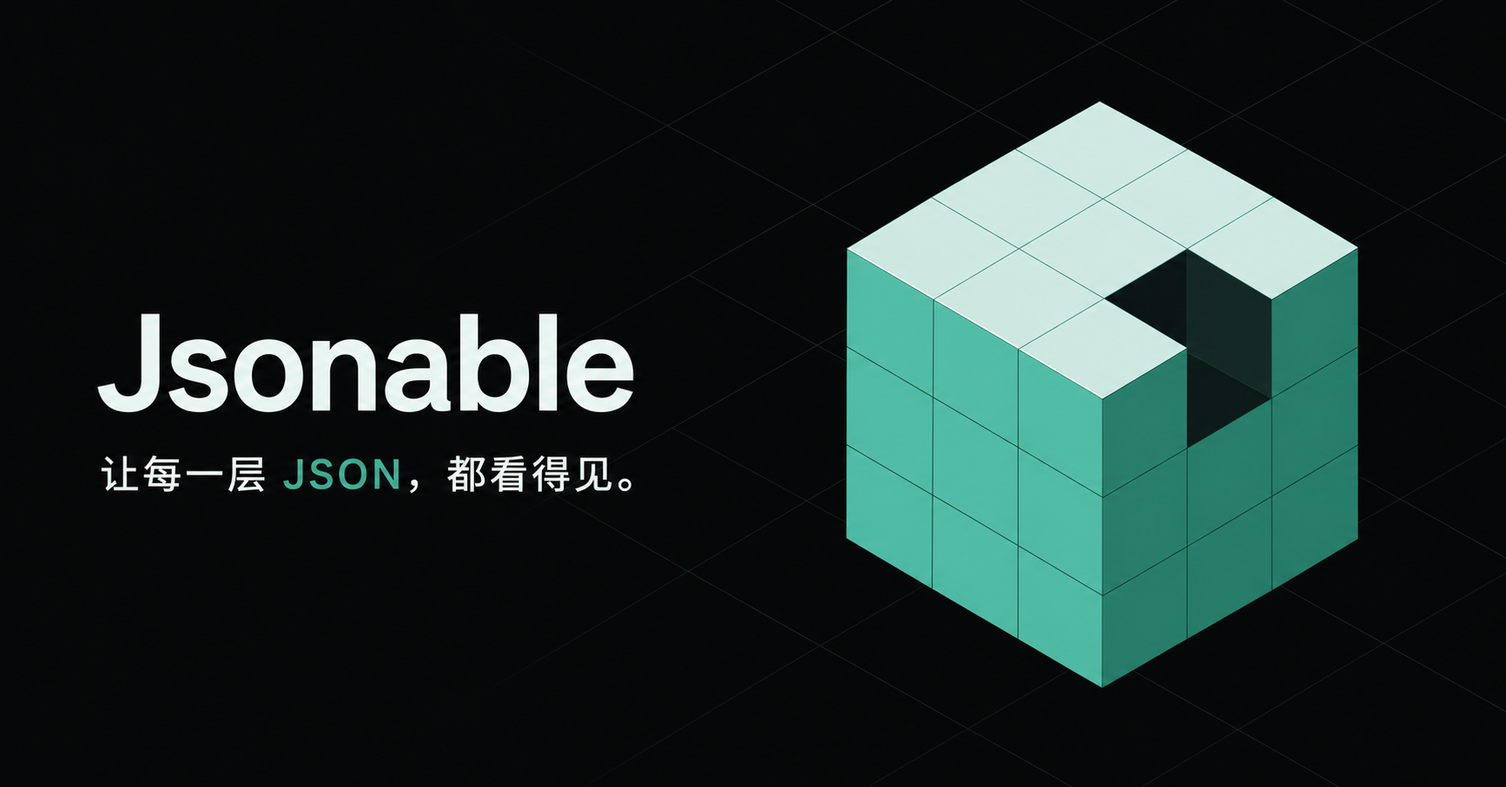
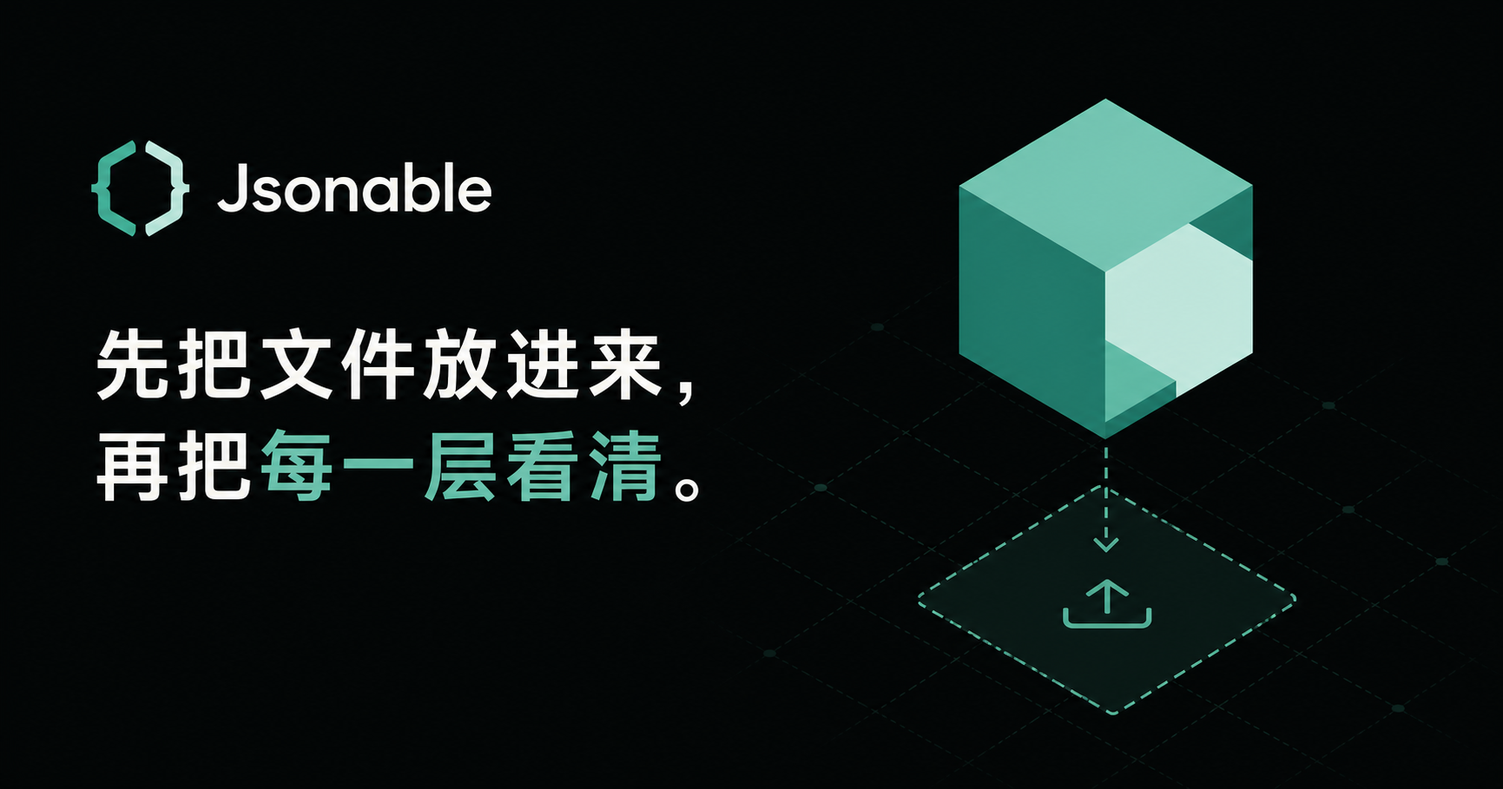
Create upload-first editing flow

Changed region(s): [[0.5615, 0.1235, 0.9047, 0.8953], [0.0624, 0.4013, 0.4679, 0.6483], [0.0624, 0.1852, 0.3432, 0.3087]]

diff --git a/app/page.tsx b/app/page.tsx
@@ -556,14 +556,16 @@ export default function Home() {
   const [mediaConversion, setMediaConversion] = useState<MediaConversionResult | null>(null);
   const [mediaConversionError, setMediaConversionError] = useState("");
   const [isDraggingJson, setIsDraggingJson] = useState(false);
-  const [toolsDocked, setToolsDocked] = useState(false);
+  const [isDraggingLanding, setIsDraggingLanding] = useState(false);
+  const [fileMenuOpen, setFileMenuOpen] = useState(false);
   const [error, setError] = useState("");
-  const [toast, setToast] = useState("已识别示例 JSON");
+  const [toast, setToast] = useState("等待上传文件");
   const fileRef = useRef<HTMLInputElement>(null);
   const replacementFileRef = useRef<HTMLInputElement>(null);
   const imageFileRef = useRef<HTMLInputElement>(null);
   const mediaFileRef = useRef<HTMLInputElement>(null);
-  const heroRef = useRef<HTMLElement>(null);
+  const unifiedFileRef = useRef<HTMLInputElement>(null);
+  const fileMenuRef = useRef<HTMLDivElement>(null);
   const colors = useMemo(() => scanColors(data), [data]);
   const shapes = useMemo(() => scanShapes(data), [data]);
   const images = useMemo(() => scanImages(data), [data]);
@@ -591,13 +593,12 @@ export default function Home() {
     return () => { document.body.style.overflow = previousOverflow; window.removeEventListener("keydown", closeOnEscape); };
   }, [colorEditor, shapeEditorOpen, imageEditorOpen]);
   useEffect(() => {
-    const updateDock = () => {
-      if (!heroRef.current || window.innerWidth < 1500) { setToolsDocked(false); return; }
-      setToolsDocked(heroRef.current.getBoundingClientRect().top <= -72);
-    };
-    updateDock(); window.addEventListener("scroll", updateDock, { passive: true }); window.addEventListener("resize", updateDock);
-    return () => { window.removeEventListener("scroll", updateDock); window.removeEventListener("resize", updateDock); };
-  }, []);
+    if (!fileMenuOpen) return;
+    const close = (event: MouseEvent) => { if (!fileMenuRef.current?.contains(event.target as Node)) setFileMenuOpen(false); };
+    const escape = (event: KeyboardEvent) => { if (event.key === "Escape") setFileMenuOpen(false); };
+    document.addEventListener("pointerdown", close); window.addEventListener("keydown", escape);
+    return () => { document.removeEventListener("pointerdown", close); window.removeEventListener("keydown", escape); };
+  }, [fileMenuOpen]);
   const activeShape = shapes.find((item) => `${item.mode}:${item.name}` === selectedShape) || shapes[0];
   const activeImage = images.find((item) => item.id === selectedImage) || images[0];
   const tabMeta = activeTab === "colors"
@@ -624,8 +625,8 @@ export default function Home() {
     await loadJsonFile(file);
   };
 
-  const convertMediaFiles = async (event: ChangeEvent<HTMLInputElement>) => {
-    const selected = [...(event.target.files || [])]; event.target.value = ""; if (!selected.length) return;
+  const convertMediaList = async (selected: File[]) => {
+    if (!selected.length) return;
     const files = selected.sort((a, b) => a.name.localeCompare(b.name, undefined, { numeric: true, sensitivity: "base" }));
     const allowed = files.every((file) => /^(video\/mp4|image\/(gif|apng|png|jpeg|webp))$/i.test(file.type) || /\.(mp4|gif|apng|png|jpe?g|webp)$/i.test(file.name));
     if (!allowed) { setMediaConversionError("请选择 MP4、GIF、APNG、PNG、JPG 或 WebP 文件。"); return; }
@@ -635,10 +636,25 @@ export default function Home() {
       const frames = files.length > 1 ? await Promise.all(files.slice(0, 96).map(decodeStill)) : kind === "mp4" ? await decodeVideo(files[0]) : kind === "gif" || kind === "apng" ? await decodeAnimatedImage(files[0]) : [await decodeStill(files[0])];
       const lottie = framesToLottie(frames); const text = JSON.stringify(lottie); const jsonSize = new Blob([text]).size; const originalSize = files.reduce((sum, file) => sum + file.size, 0); const payloadSize = frames.reduce((sum, frame) => sum + Math.ceil(frame.dataUrl.length * .75), 0); const percentage = originalSize ? Math.max(0, (1 - Math.min(payloadSize, originalSize) / originalSize) * 100) : 0;
       const baseName = files.length > 1 ? "sequence-frames" : files[0].name.replace(/\.[^.]+$/, "");
-      setMediaConversion({ text, kind, fileCount: frames.length, originalSize, payloadSize, jsonSize, percentage, outputName: `${baseName}-lottie.json` });
+      const outputName = `${baseName}-lottie.json`;
+      setMediaConversion({ text, kind, fileCount: frames.length, originalSize, payloadSize, jsonSize, percentage, outputName });
+      setData(lottie); setHasUploadedFile(true); setFileName(outputName); setInspectorTab("preview"); setError("");
       setToast(`转换完成：已生成 ${frames.length} 帧可播放 Lottie JSON`);
     } catch { setMediaConversionError("转换失败：请确认浏览器支持该媒体编码，或缩短视频、减少序列帧后重试。"); }
     finally { setMediaConverting(false); }
+  };
+  const convertMediaFiles = async (event: ChangeEvent<HTMLInputElement>) => {
+    const selected = [...(event.target.files || [])]; event.target.value = ""; await convertMediaList(selected);
+  };
+  const unifiedUpload = async (event: ChangeEvent<HTMLInputElement>) => {
+    const selected = [...(event.target.files || [])]; event.target.value = ""; if (!selected.length) return;
+    if (selected.length === 1 && (/\.json$/i.test(selected[0].name) || selected[0].type === "application/json")) await loadJsonFile(selected[0]);
+    else await convertMediaList(selected);
+  };
+  const dropUnified = async (event: ReactDragEvent<HTMLDivElement>) => {
+    event.preventDefault(); setIsDraggingLanding(false); const selected = [...(event.dataTransfer.files || [])]; if (!selected.length) return;
+    if (selected.length === 1 && (/\.json$/i.test(selected[0].name) || selected[0].type === "application/json")) await loadJsonFile(selected[0]);
+    else await convertMediaList(selected);
   };
 
   const loadReplacementFile = async (event: ChangeEvent<HTMLInputElement>) => {
@@ -696,18 +712,31 @@ export default function Home() {
   };
 
   return <main>
-    <header className="topbar"><a className="brand" href="#" aria-label="Jsonable 首页"><CubeLogo /><span>Jsonable</span></a><div className="top-actions"><span className="privacy"><span className="lock">◆</span>文件仅在本地处理</span><button className="button button-ghost" onClick={() => fileRef.current?.click()}>＋ 上传文件</button><button className="button button-dark" onClick={download}>下载 JSON <span>↓</span></button></div></header>
-    <section className="hero" ref={heroRef}>
-      <div className="hero-copy"><span className="eyebrow">VISUAL JSON EDITOR</span><h1>让每一层 JSON，<em>都看得见。</em></h1><p>上传 JSON，直接替换颜色、组合形状与图片资源；结构再复杂，也能边改边看。</p></div>
-      <MagicCube compact />
-      <div className={toolsDocked ? "hero-tools docked" : "hero-tools"}>
-        <article className={compressionResult ? "compress-card complete" : "compress-card"}><span className="compress-copy"><small>{compressionResult ? "COMPRESSION COMPLETE" : "JSON MINIFIER"}</small><strong>{compressionResult ? `压缩后 ${formatBytes(compressionResult.compressedSize)}` : "压缩当前 JSON"}</strong><em>{compressionResult ? `原始 ${formatBytes(compressionResult.originalSize)}，减少 ${compressionResult.percentage.toFixed(1)}%` : `当前 ${formatBytes(new Blob([jsonText]).size)}，移除缩进与换行`}</em></span><button className={compressionCountdown !== null ? "compress-action running" : "compress-action"} onClick={() => { setCompressionResult(null); setCompressionCountdown(3); }} disabled={compressionCountdown !== null} aria-label="压缩当前 JSON"><span>{compressionCountdown ?? (compressionResult ? "再压缩" : "压缩")}</span></button>{compressionResult && <button className="compress-download" onClick={downloadCompressed} aria-label="下载压缩后的 JSON">↓</button>}</article>
-        <article className={mediaConversion ? "media-convert-card complete" : "media-convert-card"}><span className="compress-copy"><small>{mediaConversion ? "PLAYABLE LOTTIE READY" : "MEDIA TO LOTTIE JSON"}</small><strong>{mediaConversion ? `${mediaConversion.fileCount} 帧，${formatBytes(mediaConversion.jsonSize)}` : "转换为可播放 JSON"}</strong><em>{mediaConversion ? `图像压缩 ${mediaConversion.percentage.toFixed(1)}%，${mediaConversion.kind}` : "MP4、GIF、APNG 或序列帧"}</em></span><button className="media-upload-button" onClick={() => mediaFileRef.current?.click()} disabled={mediaConverting}>{mediaConverting ? "正在抽帧..." : "上传非json文件"}</button>{mediaConversion && <button className="compress-download" onClick={downloadMediaJson} aria-label="下载可播放的 Lottie JSON">↓</button>}{mediaConversionError && <span className="media-inline-error">{mediaConversionError}</span>}</article>
+    <header className="topbar">
+      <a className="brand" href="#" aria-label="Jsonable 首页"><CubeLogo /><span>Jsonable</span></a>
+      <div className="top-actions"><span className="privacy"><span className="lock">◆</span>文件仅在本地处理</span>
+        <div className="file-menu" ref={fileMenuRef}>
+          <button className={fileMenuOpen ? "button button-ghost active" : "button button-ghost"} onClick={() => setFileMenuOpen((open) => !open)} aria-expanded={fileMenuOpen}>文件与处理 <span>⌄</span></button>
+          {fileMenuOpen && <div className="file-menu-popover">
+            <button onClick={() => { setFileMenuOpen(false); fileRef.current?.click(); }}><span>01</span><strong>上传 JSON</strong><small>打开可编辑动画文件</small></button>
+            <button onClick={() => { setFileMenuOpen(false); mediaFileRef.current?.click(); }}><span>02</span><strong>上传非 JSON</strong><small>MP4、GIF、APNG、序列帧</small></button>
+            <button disabled={!hasUploadedFile || compressionCountdown !== null} onClick={() => { setCompressionResult(null); setCompressionCountdown(3); }}><span>03</span><strong>{compressionCountdown !== null ? `正在压缩 ${compressionCountdown}` : "压缩当前 JSON"}</strong><small>{compressionResult ? `减少 ${compressionResult.percentage.toFixed(1)}% · ${formatBytes(compressionResult.compressedSize)}` : "移除缩进与换行"}</small></button>
+            {compressionResult && <button onClick={downloadCompressed}><span>↓</span><strong>下载压缩文件</strong><small>{formatBytes(compressionResult.compressedSize)}</small></button>}
+            {mediaConversion && <button onClick={downloadMediaJson}><span>↓</span><strong>下载转换文件</strong><small>{mediaConversion.fileCount} 帧 Lottie JSON</small></button>}
+          </div>}
+        </div>
+        <button className="button button-dark" onClick={download} disabled={!hasUploadedFile}>下载 JSON <span>↓</span></button>
       </div>
-      <input ref={fileRef} type="file" accept="application/json,.json" onChange={loadFile} hidden /><input ref={mediaFileRef} type="file" accept="video/mp4,image/gif,image/apng,image/png,image/jpeg,image/webp,.apng" multiple onChange={convertMediaFiles} hidden />
-    </section>
+    </header>
+    <input ref={fileRef} type="file" accept="application/json,.json" onChange={loadFile} hidden />
+    <input ref={mediaFileRef} type="file" accept="video/mp4,image/gif,image/apng,image/png,image/jpeg,image/webp,.apng" multiple onChange={convertMediaFiles} hidden />
+    <input ref={unifiedFileRef} type="file" accept="application/json,.json,video/mp4,image/gif,image/apng,image/png,image/jpeg,image/webp,.apng" multiple onChange={unifiedUpload} hidden />
+    {!hasUploadedFile ? <section className={isDraggingLanding ? "landing-hero is-dragging" : "landing-hero"} onDragEnter={(event) => { event.preventDefault(); setIsDraggingLanding(true); }} onDragOver={(event) => event.preventDefault()} onDragLeave={(event) => { if (!event.currentTarget.contains(event.relatedTarget as Node)) setIsDraggingLanding(false); }} onDrop={dropUnified}>
+      <div className="landing-copy"><span className="eyebrow">VISUAL JSON EDITOR</span><h1>先把文件放进来，<br /><em>再把每一层看清。</em></h1><p>JSON、MP4、GIF、APNG 与序列帧都可以。媒体文件会先转换成可播放、可编辑的 Lottie JSON。</p><div className="landing-steps"><span>01 上传</span><span>02 预览与代码</span><span>03 修改元素</span></div></div>
+      <div className="landing-upload"><MagicCube compact /><button onClick={() => unifiedFileRef.current?.click()} disabled={mediaConverting}>{mediaConverting ? "正在转换媒体..." : "选择文件"}<span>＋</span></button><strong>或把文件拖到这里</strong><small>支持单个 JSON / 视频 / 动图，也支持多选序列帧</small>{mediaConversionError && <em>{mediaConversionError}</em>}{isDraggingLanding && <div className="landing-drop-state">松开开始处理</div>}</div>
+    </section> : <section className="editor-context"><div><span className="eyebrow">NOW EDITING</span><strong>{fileName}</strong><small>{isLottie(data) ? "可播放 Lottie" : "JSON 视觉结构"} · {formatBytes(new Blob([jsonText]).size)}</small></div><button onClick={() => unifiedFileRef.current?.click()}>更换文件</button></section>}
     {error && <div className="error" role="alert">{error}</div>}
-    <section className="workspace">
+    {hasUploadedFile && <section className="workspace">
       <aside className="rail"><div className="rail-title">已识别</div><button className={activeTab === "colors" ? "rail-item active" : "rail-item"} onClick={() => setActiveTab("colors")}><span className="rail-icon">◒</span><span>颜色<small>Colors</small></span><b>{colors.length}</b></button><button className={activeTab === "shapes" ? "rail-item active" : "rail-item"} onClick={() => setActiveTab("shapes")}><span className="rail-icon">◇</span><span>组合形状<small>Groups</small></span><b>{shapes.length}</b></button><button className={activeTab === "images" ? "rail-item active" : "rail-item"} onClick={() => setActiveTab("images")}><span className="rail-icon">▧</span><span>图片资源<small>Images</small></span><b>{images.length}</b></button><div className="rail-note"><span>↗</span><p>支持颜色、组合矢量和图片资源的本地批量替换。</p></div></aside>
       <section className="editor-panel"><div className="resource-tabs" role="tablist" aria-label="可替换资源"><button role="tab" aria-selected={activeTab === "colors"} className={activeTab === "colors" ? "active" : ""} onClick={() => setActiveTab("colors")}><span>颜色</span><small>COLORS</small><b>{colors.length}</b></button><button role="tab" aria-selected={activeTab === "shapes"} className={activeTab === "shapes" ? "active" : ""} onClick={() => setActiveTab("shapes")}><span>组合形状</span><small>GROUPS</small><b>{shapes.length}</b></button><button role="tab" aria-selected={activeTab === "images"} className={activeTab === "images" ? "active" : ""} onClick={() => setActiveTab("images")}><span>图片资源</span><small>IMAGES</small><b>{images.length}</b></button></div><div className="section-head"><div><h2>{tabMeta.title}</h2><span className="en">{tabMeta.english}</span></div><p>{tabMeta.description}</p></div>
         {activeTab === "colors" ? <div className="color-grid">{colors.map((color, index) => <article className="color-card" key={color.hex}><div className="swatch" style={{ background: color.hex }}><span>{String(index + 1).padStart(2, "0")}</span></div><div className="color-meta"><label>识别结果</label><strong>{color.hex}</strong><small>{color.label} · {color.count} 个引用</small></div><button className="picker-button" onClick={() => setColorEditor({ current: color.hex, draft: color.hex, count: color.count })}><span className="picker-chip" style={{ background: color.hex }} />选择颜色</button></article>)}{!colors.length && <Empty text="暂未识别到颜色；可切到 JSON 查看原始字段" />}</div> : activeTab === "shapes" ?
@@ -723,7 +752,7 @@ export default function Home() {
           {isDraggingJson && <div className="drop-overlay"><span>↓</span><strong>松开即可载入 JSON</strong><small>文件只在本地浏览器中处理</small></div>}
         </div> : <><div className="json-head"><div><span className="status-dot" /> 已同步</div><button onClick={() => navigator.clipboard.writeText(jsonText).then(() => setToast("JSON 已复制"))}>复制</button></div><pre>{jsonText.split("\n").map((line, i) => <code key={i}><span>{String(i + 1).padStart(2, "0")}</span>{line}</code>)}</pre><div className="json-foot"><span>{jsonText.split("\n").length} 行</span><span>UTF-8</span></div></>}
       </aside>
-    </section>
+    </section>}
     {colorEditor && <div className="color-dialog-layer" role="dialog" aria-modal="true" aria-label="颜色编辑器"><div className="color-dialog"><header><div><span className="eyebrow">COLOR EDITOR</span><h3>替换颜色</h3></div><button onClick={() => setColorEditor(null)} aria-label="关闭颜色编辑器">×</button></header><div className="color-dialog-main"><label className="large-picker" style={{ background: colorEditor.current }}><input type="color" value={colorEditor.current} onChange={(event) => changeColor(event.target.value)} /><span>点击选择色彩</span></label><div className="color-values"><label>HEX 色值</label><div><input value={colorEditor.draft} onChange={(event) => setColorEditor({ ...colorEditor, draft: event.target.value.toUpperCase() })} /><button onClick={() => changeColor(colorEditor.draft)}>应用</button></div><small>将同步修改 {colorEditor.count} 个引用，窗口不会自动关闭。</small></div></div><div className="quick-colors">{["#101513", "#E8F0ED", "#48C5A1", "#2A6F5C", "#E66E58", "#5E8DA0"].map((hex) => <button key={hex} style={{ background: hex }} onClick={() => changeColor(hex)} aria-label={`选择 ${hex}`} />)}</div><footer><span>修改已实时写入预览和 JSON</span><button onClick={() => setColorEditor(null)}>关闭</button></footer></div></div>}
     {shapeEditorOpen && activeShape && <div className="color-dialog-layer" role="dialog" aria-modal="true" aria-label={`替换形状 ${activeShape.name}`}><div className="color-dialog asset-dialog"><header><div><span className="eyebrow">SVG REPLACEMENT</span><h3>替换「{activeShape.name}」</h3></div><button onClick={() => setShapeEditorOpen(false)} aria-label="关闭形状替换窗口">×</button></header><div className="asset-dialog-body"><div className="replace-card"><div className="composed-current"><ShapeThumb data={data} shape={activeShape} /><span><small>主文件中的目标</small><strong>{activeShape.name}</strong></span><b>{activeShape.count} 个实例</b></div><button className="replacement-upload" onClick={() => replacementFileRef.current?.click()}>{uploadedSvg ? <img className="replacement-svg-preview" src={uploadedSvg.preview} alt="上传的 SVG 预览" /> : <span className="replacement-upload-icon">＋</span>}<span><small>{uploadedSvg ? "已转换为矢量路径" : "上传替换形状"}</small><strong>{uploadedSvg?.fileName || "选择 SVG 文件"}</strong></span><b>{uploadedSvg ? "重新上传" : "选择文件"}</b></button><input ref={replacementFileRef} type="file" accept="image/svg+xml,.svg" onChange={loadReplacementFile} hidden />{replacementError && <div className="replacement-error" role="alert">{replacementError}</div>}{uploadedSvg && <><div className="replacement-summary"><span>已转换的矢量部分</span><b>{uploadedSvg.partCount}</b></div><button className="apply-replacement" onClick={() => changeShapeFromUpload(activeShape)} disabled={activeShape.mode === "reference"}>使用这个 SVG 替换全部同名形状</button>{activeShape.mode === "reference" && <div className="replacement-empty">当前目标是外部引用，不能直接写入 SVG 路径。</div>}</>}<p>SVG 会转换为 JSON 内的矢量路径，同时保留同名实例的位置、缩放和动画变换。</p></div></div><footer><span>文件仅在本地浏览器中处理</span><button onClick={() => setShapeEditorOpen(false)}>关闭</button></footer></div></div>}
     {imageEditorOpen && activeImage && <div className="color-dialog-layer" role="dialog" aria-modal="true" aria-label={`替换图片 ${activeImage.name}`}><div className="color-dialog asset-dialog"><header><div><span className="eyebrow">IMAGE REPLACEMENT</span><h3>替换「{activeImage.name}」</h3></div><button onClick={() => setImageEditorOpen(false)} aria-label="关闭图片替换窗口">×</button></header><div className="asset-dialog-body"><div className="replace-card image-replace-card"><div className="current-image"><span className="current-image-preview"><ImageThumb source={activeImage.preview} label={activeImage.name} /></span><span><small>当前资源</small><strong>{activeImage.name}</strong><em>{activeImage.count} 个引用</em></span></div><button className="replacement-upload image-upload" onClick={() => imageFileRef.current?.click()}>{uploadedImage ? <img className="replacement-svg-preview" src={uploadedImage.dataUrl} alt="新图片预览" /> : <span className="replacement-upload-icon">＋</span>}<span><small>{uploadedImage ? `${uploadedImage.width} × ${uploadedImage.height}` : "上传新图片"}</small><strong>{uploadedImage?.fileName || "选择 PNG、JPG、WebP 或 GIF"}</strong></span><b>{uploadedImage ? "重新上传" : "选择文件"}</b></button><input ref={imageFileRef} type="file" accept="image/png,image/jpeg,image/webp,image/gif" onChange={loadImageReplacement} hidden />{imageError && <div className="replacement-error" role="alert">{imageError}</div>}{uploadedImage && <button className="apply-replacement" onClick={() => changeImage(activeImage)}>使用这张图片替换全部引用</button>}<p>新图片会内嵌写入 JSON，原图层的位置、尺寸、透明度和动画保持不变。</p></div></div><footer><span>文件不会上传到服务器</span><button onClick={() => setImageEditorOpen(false)}>关闭</button></footer></div></div>}

diff --git a/app/globals.css b/app/globals.css
@@ -16,13 +16,51 @@ button { color:inherit; }
 .cube-logo i:nth-child(3) { width:16px; height:23px; right:2px; top:11px; background:#268f72; clip-path:polygon(0 26%,100% 0,100% 72%,0 100%); }
 .cube-logo::after { content:""; position:absolute; width:10px; height:10px; right:0; top:3px; background:var(--paper); clip-path:polygon(50% 0,100% 25%,100% 75%,50% 100%,0 75%,0 25%); }
 .top-actions { display:flex; align-items:center; gap:10px; }
+.file-menu { position:relative; }
+.file-menu>.button { min-width:142px; display:flex; align-items:center; justify-content:space-between; gap:16px; }
+.file-menu>.button.active { border-color:var(--accent); background:var(--surface-2); }
+.file-menu-popover { position:absolute; top:calc(100% + 12px); right:0; z-index:40; width:330px; padding:8px; border:1px solid var(--line); background:#101513; box-shadow:0 18px 50px rgba(0,0,0,.42); }
+.file-menu-popover>button { width:100%; min-height:64px; display:grid; grid-template-columns:32px 1fr; grid-template-rows:auto auto; column-gap:12px; align-items:center; border:0; border-bottom:1px solid var(--line); background:transparent; padding:10px 12px; color:var(--text); text-align:left; cursor:pointer; }
+.file-menu-popover>button:last-child { border-bottom:0; }
+.file-menu-popover>button:hover { background:var(--surface-2); }
+.file-menu-popover>button:disabled { opacity:.42; cursor:not-allowed; }
+.file-menu-popover>button>span { grid-row:1/3; color:var(--accent); font:10px ui-monospace,"SFMono-Regular",monospace; }
+.file-menu-popover>button>strong { align-self:end; font-size:13px; }
+.file-menu-popover>button>small { align-self:start; margin-top:4px; color:var(--muted); font-size:10px; }
 .privacy { margin-right:14px; font-size:12px; color:var(--muted); display:flex; gap:7px; align-items:center; }
 .lock { color:#3aa16e; font-size:10px; transform:rotate(45deg); }
 .button { min-height:42px; border:1px solid var(--line); padding:0 17px; border-radius:4px; background:transparent; font-size:13px; font-weight:700; cursor:pointer; transition:.18s ease; }
 .button:hover { transform:translateY(-1px); border-color:var(--accent); }
 .button:active { transform:translateY(1px); }
 .button-dark { background:var(--accent); border-color:var(--accent); color:var(--ink); min-width:144px; display:flex; justify-content:space-between; align-items:center; }
+.button-dark:disabled { background:#26312d; border-color:var(--line); color:#708079; cursor:not-allowed; }
 .button-ghost { border-color:var(--line); }
+.landing-hero { min-height:calc(100vh - 72px); padding:72px 96px 84px; display:grid; grid-template-columns:minmax(480px,1fr) minmax(520px,650px); align-items:center; gap:100px; position:relative; overflow:hidden; }
+.landing-hero::before { content:""; position:absolute; inset:0; pointer-events:none; background:linear-gradient(rgba(72,197,161,.045) 1px,transparent 1px),linear-gradient(90deg,rgba(72,197,161,.045) 1px,transparent 1px); background-size:64px 64px; mask-image:linear-gradient(to bottom,transparent,black 18%,black 82%,transparent); }
+.landing-copy { position:relative; z-index:1; }
+.landing-copy h1 { max-width:720px; margin-top:20px; font-size:68px; line-height:1.08; letter-spacing:-4px; }
+.landing-copy p { max-width:620px; margin:24px 0 0; color:var(--muted); font-size:17px; line-height:1.8; }
+.landing-steps { margin-top:54px; display:flex; gap:8px; }
+.landing-steps span { min-width:132px; padding:12px 14px; border-top:1px solid var(--line); color:var(--muted); font:10px ui-monospace,"SFMono-Regular",monospace; letter-spacing:.8px; }
+.landing-steps span:first-child { border-color:var(--accent); color:var(--accent); }
+.landing-upload { min-height:540px; position:relative; z-index:2; display:grid; place-items:center; align-content:center; border:1px solid var(--line); border-bottom:3px solid var(--accent); background:rgba(16,21,19,.9); transition:border-color .2s ease,background .2s ease; }
+.landing-hero.is-dragging .landing-upload { border-color:var(--accent); background:#14201c; }
+.landing-upload .cube-scene.compact { height:260px; }
+.landing-upload>button { width:220px; min-height:54px; display:flex; align-items:center; justify-content:space-between; border:1px solid var(--accent); background:var(--accent); color:var(--ink); padding:0 20px; font-size:14px; font-weight:800; cursor:pointer; }
+.landing-upload>button:hover { background:#69d7b7; }
+.landing-upload>button:disabled { opacity:.65; cursor:wait; }
+.landing-upload>button span { font-size:20px; }
+.landing-upload>strong { margin-top:20px; font-size:13px; }
+.landing-upload>small { margin-top:8px; color:var(--muted); font-size:10px; }
+.landing-upload>em { max-width:430px; margin-top:14px; color:#ffb9ad; font-size:10px; font-style:normal; text-align:center; line-height:1.5; }
+.landing-drop-state { position:absolute; inset:18px; border:2px dashed var(--accent); background:rgba(9,15,13,.9); display:grid; place-items:center; color:var(--accent); font-size:18px; font-weight:750; backdrop-filter:blur(8px); }
+.editor-context { min-height:104px; padding:20px 56px; display:flex; align-items:center; justify-content:space-between; border-bottom:1px solid var(--line); background:#0d1210; }
+.editor-context>div { display:grid; grid-template-columns:auto auto; gap:5px 16px; align-items:center; }
+.editor-context .eyebrow { grid-column:1; }
+.editor-context strong { grid-column:2; grid-row:1; font-size:15px; }
+.editor-context small { grid-column:1/3; color:var(--muted); font-size:10px; }
+.editor-context>button { min-height:38px; border:1px solid var(--line); background:var(--surface); color:var(--text); padding:0 16px; font-size:11px; cursor:pointer; }
+.editor-context>button:hover { border-color:var(--accent); }
 .hero { min-height:360px; padding:44px 64px; display:grid; grid-template-columns:minmax(380px,1fr) minmax(240px,320px) minmax(460px,620px); align-items:center; gap:48px; border-bottom:1px solid var(--line); overflow:hidden; }
 .eyebrow { font:700 11px/1.2 ui-monospace,"SFMono-Regular",monospace; letter-spacing:1.6px; color:var(--accent); }
 h1 { margin:14px 0 12px; font-family:inherit; font-size:50px; letter-spacing:-2.8px; line-height:1.08; font-weight:720; }
@@ -396,7 +434,8 @@ h2 { font-family:inherit; font-size:28px; font-weight:720; letter-spacing:-.8px;
 .error { border-color:#8e4d46; color:#ffb9ad; background:#281614; }
 button:focus-visible,input:focus-visible { outline:2px solid var(--accent); outline-offset:2px; }
 @media(max-width:1200px){ .hero{grid-template-columns:minmax(330px,1fr) minmax(220px,280px)}.hero-tools{grid-column:1/-1;grid-template-columns:1fr 1fr}.cube-scene.compact{grid-column:2;grid-row:1} }
+@media(max-width:1200px){ .landing-hero{grid-template-columns:1fr;gap:42px;padding:64px}.landing-copy{text-align:center}.landing-copy h1,.landing-copy p{margin-left:auto;margin-right:auto}.landing-steps{justify-content:center}.landing-upload{width:min(680px,100%);margin:0 auto}.landing-upload .cube-scene.compact{grid-column:auto;grid-row:auto} }
 @media(max-width:1100px){ .workspace{grid-template-columns:minmax(430px,1fr) 370px}.editor-panel{padding-left:20px;padding-right:20px}.resource-tabs{margin-left:-20px;margin-right:-20px}.hero{grid-template-columns:1fr} }
 @media(max-width:1100px){ .hero-copy{text-align:center}.hero .cube-scene.compact{grid-column:1;grid-row:auto}.hero-tools{grid-column:1;grid-template-columns:1fr 1fr}.cube-scene.compact{height:210px} }
-@media(max-width:820px){ .topbar{height:64px;padding:0 18px}.privacy,.button-ghost{display:none}.hero{padding:32px 18px;grid-template-columns:1fr;gap:22px}.hero-tools{grid-template-columns:1fr}.hero h1{font-size:42px}.workspace{grid-template-columns:1fr}.json-panel{grid-column:1;grid-row:1;min-height:520px}.preview-panel{min-height:520px}.lottie-stage,.token-stage{min-height:390px;margin:0 18px}.editor-panel{grid-column:1;grid-row:2;max-height:none;padding:0 18px 48px;border-left:0;border-top:1px solid var(--line)}.resource-tabs{margin:0 -18px 24px}.section-head{display:block}.section-head p{margin-top:10px}.top-actions .button-dark{min-width:auto}.button-dark .arrow{display:none}.color-dialog-main{grid-template-columns:1fr}.large-picker{min-height:150px}.color-dialog{max-height:92vh;overflow:auto}.cube-scene{--cube-size:126px;--cube-half:63px;height:340px}.cube-scene.compact{--cube-size:104px;--cube-half:52px;height:190px}.cube-caption{bottom:2px}.cube-caption strong{font-size:13px} }
+@media(max-width:820px){ main{border-inline:0}.topbar{height:64px;padding:0 18px}.privacy{display:none}.topbar .button-dark{display:none}.file-menu>.button{min-width:128px}.file-menu-popover{position:fixed;top:72px;left:18px;right:18px;width:auto}.landing-hero{min-height:calc(100vh - 64px);padding:42px 18px 54px;gap:30px}.landing-copy h1{font-size:44px;letter-spacing:-2.4px}.landing-copy p{font-size:14px;line-height:1.7}.landing-steps{margin-top:32px;display:grid;grid-template-columns:repeat(3,1fr)}.landing-steps span{min-width:0;padding:10px 4px}.landing-upload{min-height:430px}.landing-upload .cube-scene.compact{height:210px}.editor-context{padding:16px 18px}.editor-context>button{display:none}.hero{padding:32px 18px;grid-template-columns:1fr;gap:22px}.hero-tools{grid-template-columns:1fr}.hero h1{font-size:42px}.workspace{grid-template-columns:1fr}.json-panel{grid-column:1;grid-row:1;min-height:520px}.preview-panel{min-height:520px}.lottie-stage,.token-stage{min-height:390px;margin:0 18px}.editor-panel{grid-column:1;grid-row:2;max-height:none;padding:0 18px 48px;border-left:0;border-top:1px solid var(--line)}.resource-tabs{margin:0 -18px 24px}.section-head{display:block}.section-head p{margin-top:10px}.color-dialog-main{grid-template-columns:1fr}.large-picker{min-height:150px}.color-dialog{max-height:92vh;overflow:auto}.cube-scene{--cube-size:126px;--cube-half:63px;height:340px}.cube-scene.compact{--cube-size:104px;--cube-half:52px;height:190px}.cube-caption{bottom:2px}.cube-caption strong{font-size:13px} }
 @media(prefers-reduced-motion:reduce){ .magic-cube{animation:none;transform:rotateX(-22deg) rotateY(34deg)}.cube-face span,.cube-orbit{animation:none} }
